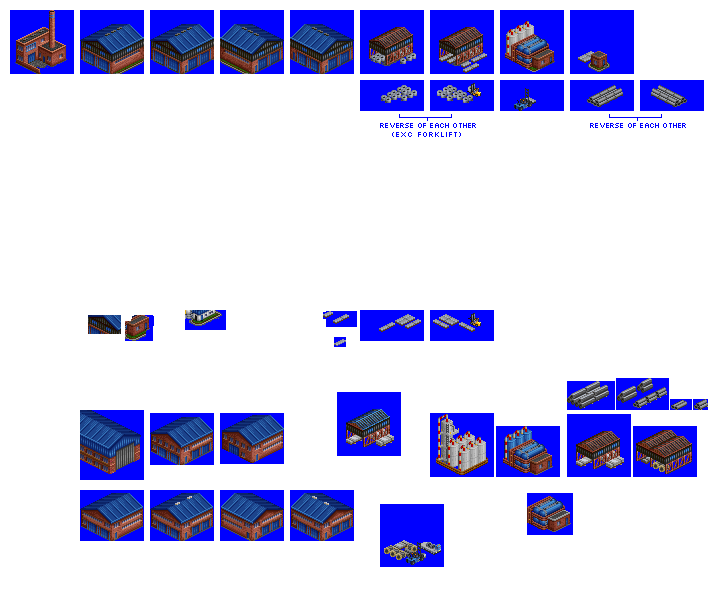
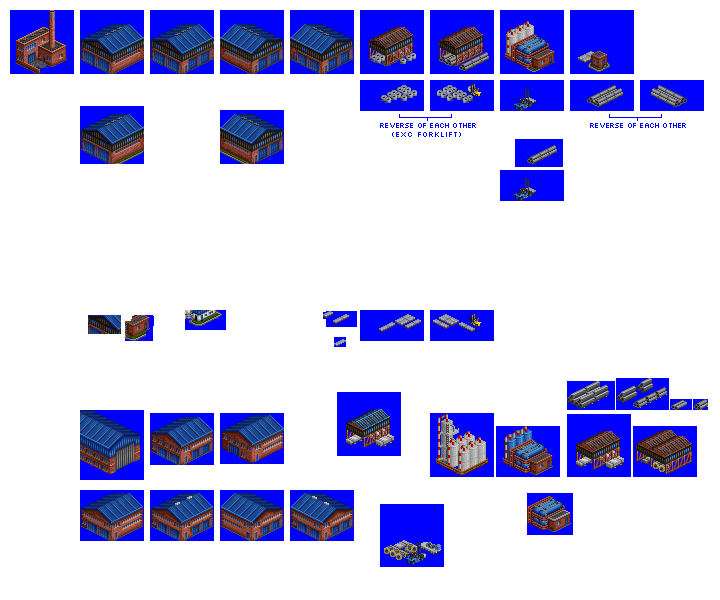
Change: improved Sheet and Pipe Mill layouts

diff --git a/src/industries/sheet_and_pipe_mill.py b/src/industries/sheet_and_pipe_mill.py
@@ -101,38 +101,31 @@ industry.add_spritelayout(
     ground_sprite=spriteset_ground,
     ground_overlay=spriteset_ground_overlay,
     building_sprites=[spriteset_2],
-    fences=["nw", "ne", "se", "sw"],
+    fences=[],
 )
 industry.add_spritelayout(
     id="sheet_and_pipe_mill_spritelayout_shed_sw_ne_2",
     ground_sprite=spriteset_ground,
     ground_overlay=spriteset_ground_overlay,
     building_sprites=[spriteset_3],
-    fences=["nw", "ne", "se", "sw"],
+    fences=[],
 )
 industry.add_spritelayout(
     id="sheet_and_pipe_mill_spritelayout_shed_se_nw_1",
     ground_sprite=spriteset_ground,
     ground_overlay=spriteset_ground_overlay,
     building_sprites=[spriteset_4],
-    fences=["nw", "ne", "se", "sw"],
+    fences=[],
 )
 industry.add_spritelayout(
     id="sheet_and_pipe_mill_spritelayout_shed_se_nw_2",
     ground_sprite=spriteset_ground,
     ground_overlay=spriteset_ground_overlay,
     building_sprites=[spriteset_5],
-    fences=["nw", "ne", "se", "sw"],
+    fences=[],
 )
 industry.add_spritelayout(
-    id="sheet_and_pipe_mill_spritelayout_open_shed_coils",
-    ground_sprite=spriteset_ground,
-    ground_overlay=spriteset_ground_overlay,
-    building_sprites=[spriteset_6],
-    fences=["nw", "ne", "se", "sw"],
-)
-industry.add_spritelayout(
-    id="sheet_and_pipe_mill_spritelayout_open_shed_slabs",
+    id="sheet_and_pipe_mill_spritelayout_open_shed_pipes",
     ground_sprite=spriteset_ground,
     ground_overlay=spriteset_ground_overlay,
     building_sprites=[spriteset_7],
@@ -165,13 +158,6 @@ industry.add_spritelayout(
     ground_overlay=spriteset_ground_overlay,
     building_sprites=[spriteset_11],
     fences=["nw", "ne", "se", "sw"],
-)
-industry.add_spritelayout(
-    id="sheet_and_pipe_mill_spritelayout_greeble",
-    ground_sprite=spriteset_ground,
-    ground_overlay=spriteset_ground_overlay,
-    building_sprites=[spriteset_12],
-    fences=[],
 )
 industry.add_spritelayout(
     id="sheet_and_pipe_mill_spritelayout_pipe_stack_sw_ne",
@@ -212,12 +198,19 @@ industry.add_industry_outpost_layout(
             "sheet_and_pipe_mill_tile_1",
             "sheet_and_pipe_mill_spritelayout_boilerhouse",
         ),
-        (1, 0, "sheet_and_pipe_mill_tile_1", "sheet_and_pipe_mill_spritelayout_tanks"),
+        (1, 1, "sheet_and_pipe_mill_tile_1", "sheet_and_pipe_mill_spritelayout_pipe_stack_sw_ne"),
         (
             1,
+            0,
+            "sheet_and_pipe_mill_tile_1",
+            "sheet_and_pipe_mill_spritelayout_shed_sw_ne_2",
+        ),
+        (2, 0, "sheet_and_pipe_mill_tile_1", "sheet_and_pipe_mill_spritelayout_open_shed_pipes"),
+        (
+            2,
             1,
             "sheet_and_pipe_mill_tile_1",
-            "sheet_and_pipe_mill_spritelayout_open_shed_coils",
+            "sheet_and_pipe_mill_spritelayout_tanks",
         ),
     ],
 )
@@ -234,14 +227,26 @@ industry.add_industry_outpost_layout(
             0,
             1,
             "sheet_and_pipe_mill_tile_1",
-            "sheet_and_pipe_mill_spritelayout_boilerhouse",
+            "sheet_and_pipe_mill_spritelayout_shed_se_nw_1",
         ),
-        (1, 0, "sheet_and_pipe_mill_tile_1", "sheet_and_pipe_mill_spritelayout_tanks"),
+        (
+            0,
+            2,
+            "sheet_and_pipe_mill_tile_1",
+            "sheet_and_pipe_mill_spritelayout_open_shed_pipes",
+        ),
+        (1, 0, "sheet_and_pipe_mill_tile_1", "sheet_and_pipe_mill_spritelayout_boilerhouse"),
         (
             1,
             1,
             "sheet_and_pipe_mill_tile_1",
-            "sheet_and_pipe_mill_spritelayout_open_shed_coils",
+            "sheet_and_pipe_mill_spritelayout_pipe_stack_se_nw",
+        ),
+        (
+            1,
+            2,
+            "sheet_and_pipe_mill_tile_1",
+            "sheet_and_pipe_mill_spritelayout_tanks",
         ),
     ],
 )
@@ -271,12 +276,6 @@ industry.add_industry_layout(
             "sheet_and_pipe_mill_spritelayout_boilerhouse",
         ),
         (
-            0,
-            3,
-            "sheet_and_pipe_mill_tile_1",
-            "sheet_and_pipe_mill_spritelayout_open_shed_coils",
-        ),
-        (
             1,
             0,
             "sheet_and_pipe_mill_tile_1",
@@ -291,91 +290,71 @@ industry.add_industry_layout(
         (
             1,
             2,
-            "sheet_and_pipe_mill_tile_1",
-            "sheet_and_pipe_mill_spritelayout_steel_pile_se_nw",
-        ),
-        (
-            1,
-            3,
-            "sheet_and_pipe_mill_tile_1",
-            "sheet_and_pipe_mill_spritelayout_steel_pile_sw_ne",
-        ),
-        (
-            2,
-            0,
-            "sheet_and_pipe_mill_tile_1",
-            "sheet_and_pipe_mill_spritelayout_shed_sw_ne_2",
-        ),
-        (
-            2,
-            1,
-            "sheet_and_pipe_mill_tile_1",
-            "sheet_and_pipe_mill_spritelayout_shed_sw_ne_2",
-        ),
-        (
-            2,
-            2,
-            "sheet_and_pipe_mill_tile_1",
-            "sheet_and_pipe_mill_spritelayout_shed_sw_ne_2",
-        ),
-        (2, 3, "sheet_and_pipe_mill_tile_1", "sheet_and_pipe_mill_spritelayout_empty"),
-        (
-            3,
-            0,
-            "sheet_and_pipe_mill_tile_1",
-            "sheet_and_pipe_mill_spritelayout_shed_sw_ne_1",
-        ),
-        (
-            3,
-            1,
-            "sheet_and_pipe_mill_tile_1",
-            "sheet_and_pipe_mill_spritelayout_shed_sw_ne_1",
-        ),
-        (
-            3,
-            2,
-            "sheet_and_pipe_mill_tile_1",
-            "sheet_and_pipe_mill_spritelayout_shed_sw_ne_1",
-        ),
-        (
-            3,
-            3,
             "sheet_and_pipe_mill_tile_1",
             "sheet_and_pipe_mill_spritelayout_pipe_stack_sw_ne",
         ),
         (
+            2,
+            0,
+            "sheet_and_pipe_mill_tile_1",
+            "sheet_and_pipe_mill_spritelayout_shed_sw_ne_2",
+        ),
+        (
+            2,
+            1,
+            "sheet_and_pipe_mill_tile_1",
+            "sheet_and_pipe_mill_spritelayout_shed_sw_ne_2",
+        ),
+        (
+            2,
+            2,
+            "sheet_and_pipe_mill_tile_1",
+            "sheet_and_pipe_mill_spritelayout_shed_sw_ne_2",
+        ),
+        (
+            3,
+            0,
+            "sheet_and_pipe_mill_tile_1",
+            "sheet_and_pipe_mill_spritelayout_shed_sw_ne_1",
+        ),
+        (
+            3,
+            1,
+            "sheet_and_pipe_mill_tile_1",
+            "sheet_and_pipe_mill_spritelayout_shed_sw_ne_1",
+        ),
+        (
+            3,
+            2,
+            "sheet_and_pipe_mill_tile_1",
+            "sheet_and_pipe_mill_spritelayout_shed_sw_ne_1",
+        ),
+        (
             4,
             0,
             "sheet_and_pipe_mill_tile_1",
-            "sheet_and_pipe_mill_spritelayout_open_shed_slabs",
+            "sheet_and_pipe_mill_spritelayout_shed_sw_ne_2",
         ),
         (
             4,
             1,
             "sheet_and_pipe_mill_tile_1",
-            "sheet_and_pipe_mill_spritelayout_open_shed_slabs",
+            "sheet_and_pipe_mill_spritelayout_open_shed_pipes",
         ),
         (
             4,
             2,
             "sheet_and_pipe_mill_tile_1",
             "sheet_and_pipe_mill_spritelayout_shed_sw_ne_2",
-        ),
-        (
-            4,
-            3,
-            "sheet_and_pipe_mill_tile_1",
-            "sheet_and_pipe_mill_spritelayout_pipe_stack_sw_ne",
         ),
         (5, 0, "sheet_and_pipe_mill_tile_1", "sheet_and_pipe_mill_spritelayout_tanks"),
-        (5, 1, "sheet_and_pipe_mill_tile_1", "sheet_and_pipe_mill_spritelayout_empty"),
+        (5, 1, "sheet_and_pipe_mill_tile_1", "sheet_and_pipe_mill_spritelayout_open_shed_pipes"),
         (
             5,
             2,
             "sheet_and_pipe_mill_tile_1",
-            "sheet_and_pipe_mill_spritelayout_greeble",
+            "sheet_and_pipe_mill_spritelayout_pipe_stack_sw_ne",
         ),
-        (5, 3, "sheet_and_pipe_mill_tile_1", "sheet_and_pipe_mill_spritelayout_office"),
     ],
 )
 industry.add_industry_layout(
@@ -410,7 +389,7 @@ industry.add_industry_layout(
             0,
             4,
             "sheet_and_pipe_mill_tile_1",
-            "sheet_and_pipe_mill_spritelayout_open_shed_slabs",
+            "sheet_and_pipe_mill_spritelayout_shed_se_nw_1",
         ),
         (0, 5, "sheet_and_pipe_mill_tile_1", "sheet_and_pipe_mill_spritelayout_tanks"),
         (
@@ -441,9 +420,14 @@ industry.add_industry_layout(
             1,
             4,
             "sheet_and_pipe_mill_tile_1",
-            "sheet_and_pipe_mill_spritelayout_open_shed_slabs",
+            "sheet_and_pipe_mill_spritelayout_open_shed_pipes",
         ),
-        (1, 5, "sheet_and_pipe_mill_tile_1", "sheet_and_pipe_mill_spritelayout_empty"),
+        (
+            1,
+            5,
+            "sheet_and_pipe_mill_tile_1",
+            "sheet_and_pipe_mill_spritelayout_open_shed_pipes",
+        ),
         (
             2,
             0,
@@ -454,7 +438,7 @@ industry.add_industry_layout(
             2,
             1,
             "sheet_and_pipe_mill_tile_1",
-            "sheet_and_pipe_mill_spritelayout_steel_pile_sw_ne",
+            "sheet_and_pipe_mill_spritelayout_pipe_stack_se_nw",
         ),
         (
             2,
@@ -478,33 +462,7 @@ industry.add_industry_layout(
             2,
             5,
             "sheet_and_pipe_mill_tile_1",
-            "sheet_and_pipe_mill_spritelayout_greeble",
-        ),
-        (
-            3,
-            0,
-            "sheet_and_pipe_mill_tile_1",
-            "sheet_and_pipe_mill_spritelayout_open_shed_coils",
-        ),
-        (
-            3,
-            1,
-            "sheet_and_pipe_mill_tile_1",
-            "sheet_and_pipe_mill_spritelayout_steel_pile_se_nw",
-        ),
-        (3, 2, "sheet_and_pipe_mill_tile_1", "sheet_and_pipe_mill_spritelayout_empty"),
-        (
-            3,
-            3,
-            "sheet_and_pipe_mill_tile_1",
             "sheet_and_pipe_mill_spritelayout_pipe_stack_se_nw",
         ),
-        (
-            3,
-            4,
-            "sheet_and_pipe_mill_tile_1",
-            "sheet_and_pipe_mill_spritelayout_pipe_stack_se_nw",
-        ),
-        (3, 5, "sheet_and_pipe_mill_tile_1", "sheet_and_pipe_mill_spritelayout_office"),
     ],
 )
